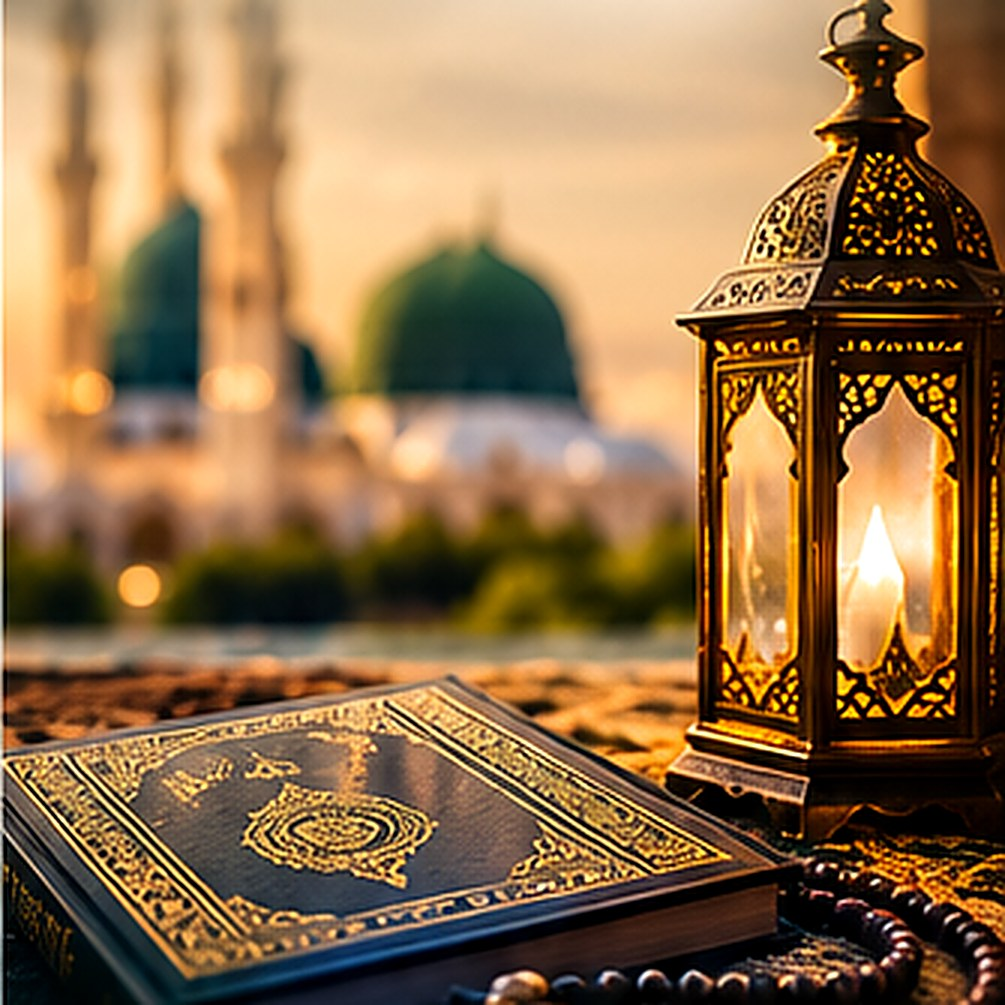
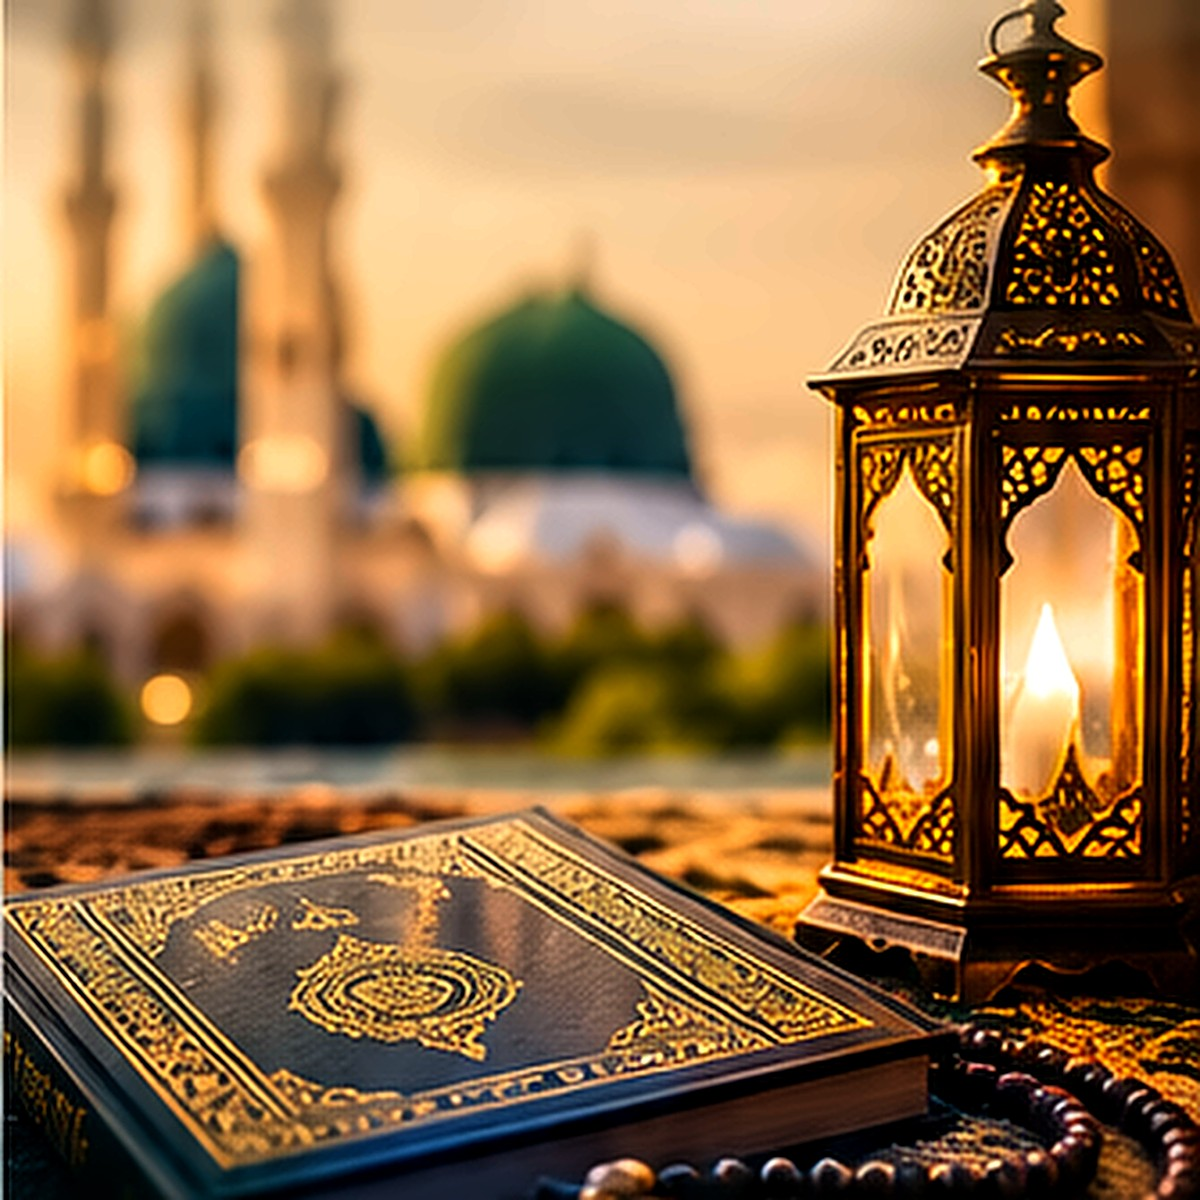
Haramain: sharper onboarding photos; no disclaimer text on screens
Claude-Session: https://claude.ai/code/session_01BkZE6zhJBZrWAPWUEPJ88r

Changed region(s): [[0.7095, 0.3393, 0.7403, 0.3701]]

diff --git a/privacy-policy.html b/privacy-policy.html
@@ -5,7 +5,7 @@ header{background:#fff;box-shadow:inset 0 -3px 0 #0E7A52}.w{max-width:720px;marg
 header .w{display:flex;align-items:center;gap:10px}header span{font-size:26px}header b{font-size:18px;letter-spacing:.08em;color:#0E7A52}
 h1{font-size:28px;line-height:1.2;margin:8px 0 4px}h2{font-size:18px;margin:28px 0 6px;color:#0E7A52}.muted{color:#5E6B63;font-size:14px}
 .note{background:#fff;border:1px solid #E3DED0;border-radius:14px;padding:14px 16px;margin:16px 0}a{color:#0E7A52;font-weight:600}ul{padding-left:20px}</style></head>
-<body><header><div class="w"><span>🕋</span><b>HARAMAIN</b></div></header><main class="w"><h1>Privacy Policy</h1><p class="muted">Last updated 22 October 2026</p><div class="note"><b>Independent app.</b> Haramain (haramain.pi) is an independent app for the Pi Network. It is not affiliated with the Saudi government, the Ministry of Hajj and Umrah, the General Authority for the Affairs of the Two Holy Mosques, or Pi Core Team.</div>
+<body><header><div class="w"><span>🕋</span><b>HARAMAIN</b></div></header><main class="w"><h1>Privacy Policy</h1><p class="muted">Last updated 22 October 2026</p>
 <h2>Saved only on your phone</h2><p>Your checklist, Tawaf and Sa'i counts, dhikr, prayer log, water log, health card, medications, emergency contacts, notes, documents, memories, budget and settings are saved in your browser's storage on this device. We do not receive them. Clearing the app's data deletes them.</p>
 <h2>Pi sign-in</h2><p>When you sign in with Pi, the Pi app shares your Pi username and a user ID with Haramain. We never see your passphrase, seed phrase or private keys.</p>
 <h2>Payments</h2><p>The optional Supporter Pass is a Pi payment made in the Pi app. Our server checks the payment with Pi Network (amount, status and transaction ID) before approving and completing it.</p>

diff --git a/index.html b/index.html
@@ -1088,7 +1088,7 @@ select.fi{cursor:pointer;}
 <script src="https://sdk.minepi.com/pi-sdk.js"></script>
 <script src="https://cdnjs.cloudflare.com/ajax/libs/html2canvas/1.4.1/html2canvas.min.js"></script>
 <link rel="stylesheet" href="haramain-pro.css?v=3">
-<link rel="stylesheet" href="haramain-onboarding.css?v=1">
+<link rel="stylesheet" href="haramain-onboarding.css?v=2">
 </head>
 <body>
 <div class="stripe"></div>
@@ -8097,7 +8097,6 @@ document.addEventListener('DOMContentLoaded',function(){
     <div class="modal-body">
       <div style="text-align:center;margin-bottom:.8rem"><div style="font-size:2.4rem">🕋</div><div style="font-size:1.3rem;font-weight:800;color:var(--grn);letter-spacing:.08em">HARAMAIN</div><div style="font-size:13px;color:var(--t3)">haramain.pi · Hajj &amp; Umrah companion</div></div>
       <p>Haramain helps pilgrims prepare for and perform Hajj and Umrah: prayer times for Makkah, step-by-step rituals, duas, Qibla, a checklist, health and emergency tools, and a place to ask questions.</p>
-      <p>It is an independent app built for Pi Browser. It is not affiliated with the Saudi government, the Ministry of Hajj and Umrah or the General Authority for the Two Holy Mosques.</p>
       <p>Contact: <a href="mailto:support.haramain@gmail.com" style="color:var(--grn);font-weight:700">support.haramain@gmail.com</a></p>
     </div>
   </div>
@@ -8161,6 +8160,6 @@ function orderQurbani(){
 <script src="pi-price-widget.js?v=1"></script>
 <script src="prayer-calc.js?v=1"></script>
 <script src="haramain-pro.js?v=5"></script>
-<script src="haramain-onboarding.js?v=1"></script>
+<script src="haramain-onboarding.js?v=2"></script>
 </body>
 </html>

diff --git a/haramain-onboarding.js b/haramain-onboarding.js
@@ -27,7 +27,7 @@
         '<div class="hob-bars" aria-hidden="true">' + STEPS.map(function () { return '<i><b></b></i>'; }).join('') + '</div>' +
         '<div class="hob-actions"><button type="button" class="hob-next" aria-label="Next">Next <span>→</span></button></div>' +
         '<div class="hob-final"><button type="button" class="hob-pi"><span>π</span> Sign in with Pi</button><button type="button" class="hob-guest">Continue as guest</button></div>' +
-        '<p class="hob-legal"><span class="hob-full">Independent app, not affiliated with the Saudi government or the Ministry of Hajj and Umrah.<br></span>© Haramain 2026</p>' +
+        '<p class="hob-legal">© Haramain 2026</p>' +
       '</div>';
     document.body.appendChild(el);
     document.documentElement.classList.add('hob-on');
